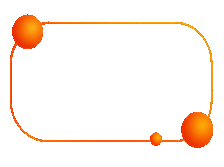
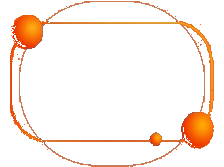
Fix PEM overlay using transparent frame PNG requirement
Document that the client JPG is opaque and cannot overlay the photo;
ship a true transparent 224x167 frame PNG and simplify HTML layering
so the photo sits behind the orange border and orbs.

diff --git a/emails/pem-photo-in-frame.html b/emails/pem-photo-in-frame.html
@@ -1,45 +1,59 @@
 %%[
   SET @PEM_Photo = AttributeValue("PEM_Photo")
 ]%%
+<!--
+  IMPORTANT:
+  Your JPG URL cannot work as an overlay (JPG has NO transparency).
+  1) Upload this file to SFMC Image Library:
+     emails/assets/pem-banner/pem-frame-transparent-224x167.png
+  2) Put that NEW .png URL in @PEM_Frame below.
+-->
+%%[
+  SET @PEM_Frame = "PASTE_TRANSPARENT_PNG_URL_FROM_SFMC_HERE"
+]%%
 <!--[if mso]>
-<style type="text/css">
-  table { border-collapse: collapse; }
-</style>
 <xml>
   <o:OfficeDocumentSettings>
     <o:AllowPNG/>
     <o:PixelsPerInch>96</o:PixelsPerInch>
   </o:OfficeDocumentSettings>
 </xml>
+<style type="text/css">
+  table { border-collapse: collapse; }
+</style>
 <![endif]-->
 
-<!-- MAIN TABLE — bg #EB7231 -->
-<table role="presentation" border="0" cellpadding="0" cellspacing="0" width="640" align="center" bgcolor="#EB7231" style="width:640px; max-width:640px; margin:0 auto; border-collapse:collapse; background-color:#EB7231; mso-table-lspace:0pt; mso-table-rspace:0pt;">
+<table role="presentation" border="0" cellpadding="0" cellspacing="0" width="640" align="center" bgcolor="#EB7231" style="width:640px; max-width:640px; margin:0 auto; border-collapse:collapse; background-color:#EB7231;">
   <tr>
     <td align="left" valign="top" bgcolor="#EB7231" style="padding:29px 36px 0 35px; background-color:#EB7231;">
 
       <table role="presentation" border="0" cellpadding="0" cellspacing="0" width="224" height="167" style="width:224px; height:167px; border-collapse:collapse;">
         <tr>
-          <td align="center" valign="middle" width="224" height="167" bgcolor="#EB7231" style="width:224px; height:167px; font-size:0; line-height:0; background-color:#EB7231;">
+          <td width="224" height="167" valign="top" bgcolor="#EB7231" style="width:224px; height:167px; background-color:#EB7231; font-size:0; line-height:0;">
 
-            <!-- OUTLOOK -->
             <!--[if gte mso 9]>
-            <v:group xmlns:v="urn:schemas-microsoft-com:vml" xmlns:w="urn:schemas-microsoft-com:office:word" coordsize="224,167" coordorigin="0,0" style="width:224px; height:167px;">
-              <v:roundrect style="position:absolute; left:20; top:2; width:184; height:163; z-index:1;" arcsize="4200f" stroked="false" filled="true">
-                <v:fill type="frame" src="%%=v(@PEM_Photo)=%%" color="#333333" />
-              </v:roundrect>
-              <v:rect style="position:absolute; left:0; top:0; width:224; height:167; z-index:2;" stroked="false" filled="true">
-                <v:fill type="frame" src="https://image.ps.alexion.com/lib/fe2f11717064057e711376/m/1/5fe15f90-c2c2-4da4-bd5b-283eb5931d80.jpg" color="#EB7231" />
-              </v:rect>
-            </v:group>
+            <v:rect xmlns:v="urn:schemas-microsoft-com:vml" fill="true" stroke="false" style="width:224px; height:167px;">
+              <v:fill type="frame" src="%%=v(@PEM_Frame)=%%" color="#EB7231" />
+              <v:textbox inset="20px,2px,20px,2px">
+                <table role="presentation" border="0" cellpadding="0" cellspacing="0" width="184" height="163">
+                  <tr>
+                    <td width="184" height="163" align="center" valign="middle" style="font-size:0; line-height:0;">
+                      <img src="%%=v(@PEM_Photo)=%%" alt="PEM Headshot" width="184" height="163" border="0" style="display:block; width:184px; height:163px; border:0;" />
+                    </td>
+                  </tr>
+                </table>
+              </v:textbox>
+            </v:rect>
             <![endif]-->
 
-            <!-- GMAIL / APPLE / YAHOO / ANDROID -->
             <!--[if !mso]><!-->
-            <div style="display:inline-block; position:relative; width:224px; height:167px;">
-              <img src="%%=v(@PEM_Photo)=%%" alt="PEM Headshot" width="184" height="163" border="0" style="position:absolute; left:20px; top:2px; display:block; width:184px; height:163px; border:0; border-radius:70px; object-fit:cover; z-index:1;" />
-              <img src="https://image.ps.alexion.com/lib/fe2f11717064057e711376/m/1/5fe15f90-c2c2-4da4-bd5b-283eb5931d80.jpg" alt="" width="224" height="167" border="0" style="position:absolute; left:0; top:0; display:block; width:224px; height:167px; border:0; z-index:2;" />
-            </div>
+            <table role="presentation" border="0" cellpadding="0" cellspacing="0" width="224" height="167" style="width:224px; height:167px; border-collapse:collapse;">
+              <tr>
+                <td width="224" height="167" valign="middle" align="center" background="%%=v(@PEM_Photo)=%%" style="width:224px; height:167px; background-image:url('%%=v(@PEM_Photo)=%%'); background-repeat:no-repeat; background-position:center center; background-size:184px 163px; font-size:0; line-height:0;">
+                  <img src="%%=v(@PEM_Frame)=%%" alt="" width="224" height="167" border="0" style="display:block; width:224px; height:167px; border:0;" />
+                </td>
+              </tr>
+            </table>
             <!--<![endif]-->
 
           </td>
